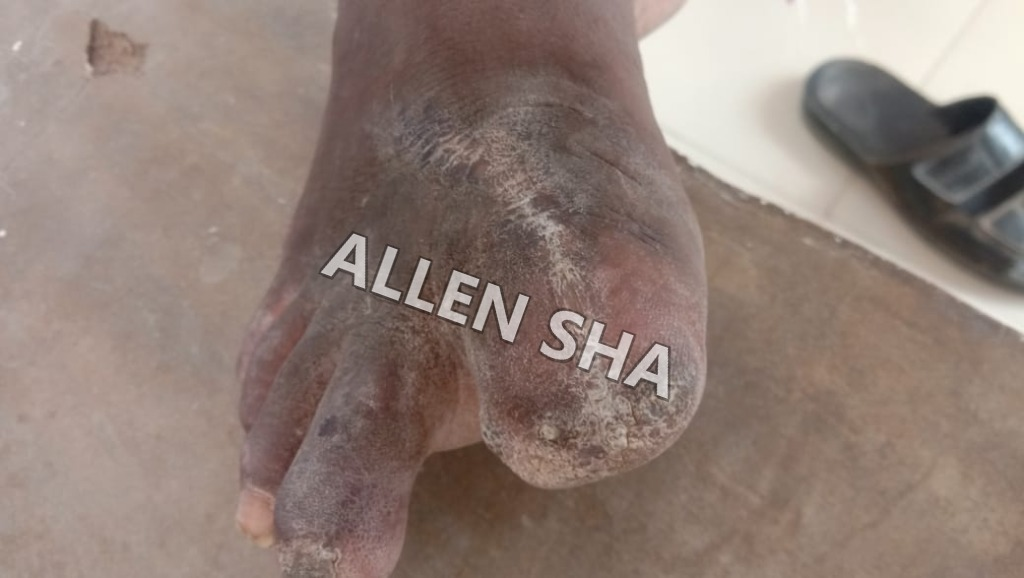
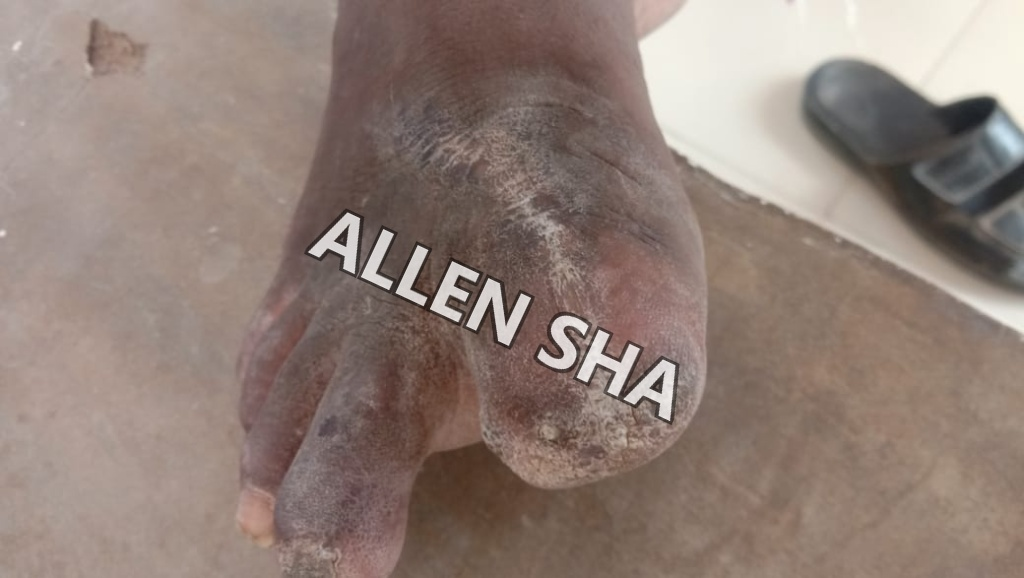
Enhance contrast and visibility of single center watermark across all cases including finger ulcer

Changed region(s): [[0.2812, 0.3426, 0.6875, 0.7474]]

diff --git a/scripts/watermark_images.py b/scripts/watermark_images.py
@@ -31,7 +31,7 @@ def apply_single_watermark():
         draw = ImageDraw.Draw(overlay)
         
         # Font size proportional to image dimensions
-        font_size = int(min(width, height) * 0.12)
+        font_size = int(min(width, height) * 0.13)
         font = ImageFont.truetype(font_path, font_size)
         
         watermark_text = "ALLEN SHA"
@@ -42,24 +42,27 @@ def apply_single_watermark():
         cx = (width - tw) // 2
         cy = (height - th) // 2
         
-        # Single Center Watermark with subtle shadow & outline
+        # Single Center Watermark with prominent dark outline for 100% contrast
         text_img = Image.new("RGBA", (width, height), (255, 255, 255, 0))
         t_draw = ImageDraw.Draw(text_img)
         
-        # Dark shadow outline for visibility on bright/dark backgrounds
-        for dx, dy in [(-2,0), (2,0), (0,-2), (0,2), (-2,-2), (2,2), (-2,2), (2,-2), (1,2), (2,3)]:
-            t_draw.text((cx + dx, cy + dy), watermark_text, font=font, fill=(0, 0, 0, 85))
-        # Main semi-transparent white text
-        t_draw.text((cx, cy), watermark_text, font=font, fill=(255, 255, 255, 150))
+        # Crisp outline around text
+        for ox in range(-3, 4):
+            for oy in range(-3, 4):
+                if ox != 0 or oy != 0:
+                    t_draw.text((cx + ox, cy + oy), watermark_text, font=font, fill=(0, 0, 0, 120))
         
-        # Slight angle (-20 deg)
-        rotated_text = text_img.rotate(-20, resample=Image.Resampling.BICUBIC, center=(width//2, height//2))
+        # Crisp semi-transparent white fill
+        t_draw.text((cx, cy), watermark_text, font=font, fill=(255, 255, 255, 190))
+        
+        # Rotate -25 deg around center
+        rotated_text = text_img.rotate(-25, resample=Image.Resampling.BICUBIC, center=(width//2, height//2))
         overlay.alpha_composite(rotated_text)
         
         # Composite overlay with original image
         final_img = Image.alpha_composite(img, overlay).convert("RGB")
-        final_img.save(file_path, "JPEG", quality=92, optimize=True)
-        print(f"Applied single watermark to: {file_path}")
+        final_img.save(file_path, "JPEG", quality=95, optimize=True)
+        print(f"Applied high-contrast single watermark to: {file_path}")
 
 if __name__ == "__main__":
     apply_single_watermark()
